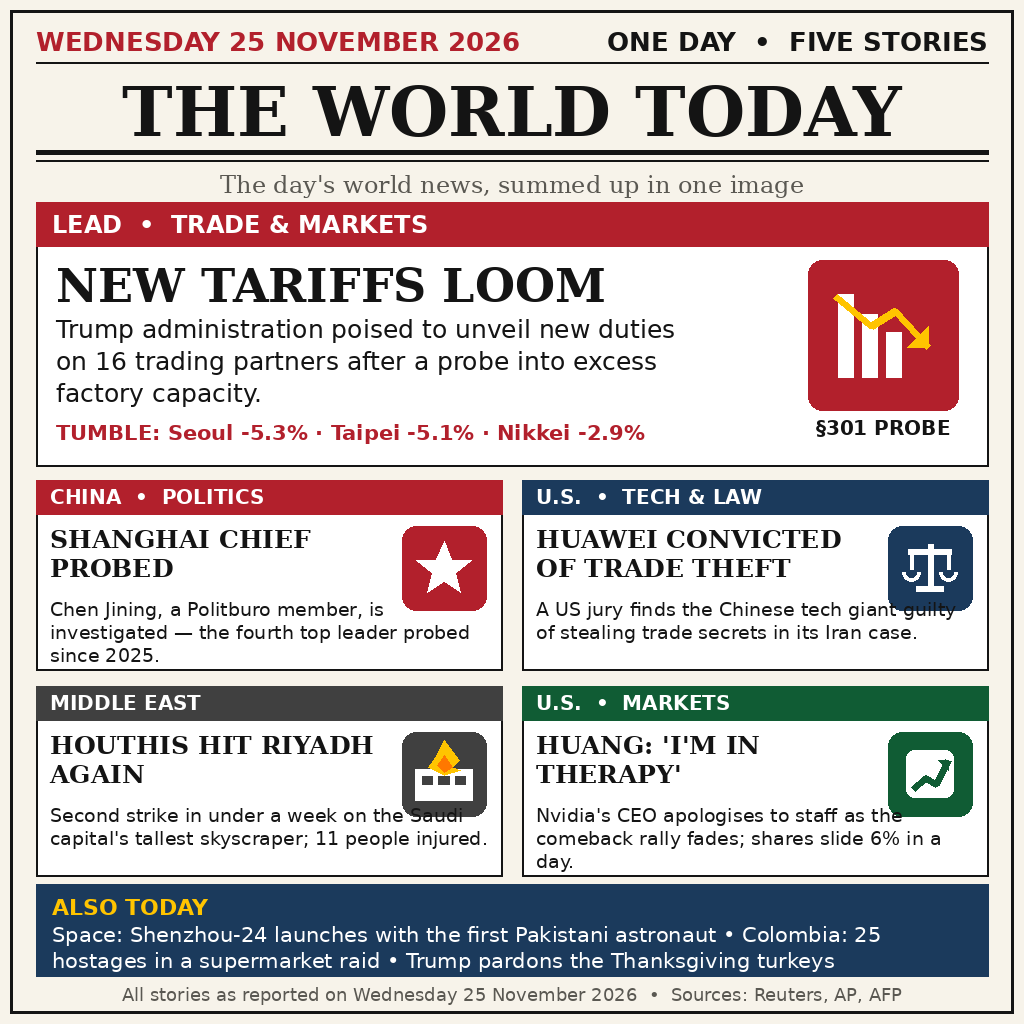
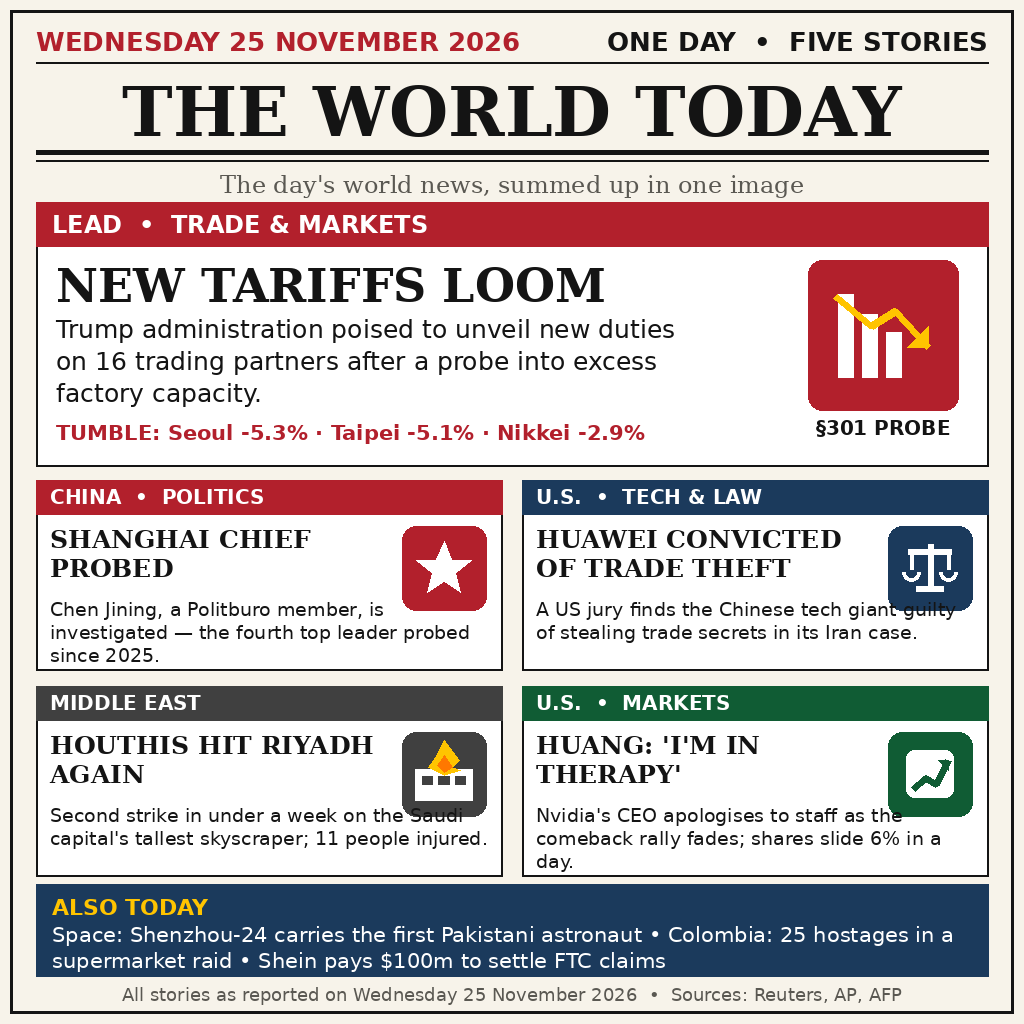
Add Shein FTC settlement to Also Today strip; tighten layout

Changed region(s): [[0.0625, 0.9062, 0.9375, 0.9688]]

diff --git a/main.py b/main.py
@@ -7,8 +7,8 @@ into excess factory capacity (Asian markets tumble), Shanghai party chief
 Chen Jining under investigation, a US jury convicting Huawei of stealing
 trade secrets, a second Houthi strike on Riyadh's tallest tower, and
 Nvidia's Jensen Huang apologising to staff as the comeback rally fades —
-plus Shenzhou-24, the Colombia supermarket hostages and the Thanksgiving
-turkey pardon.
+plus Shenzhou-24, the Colombia supermarket hostages and Shein's $100m FTC
+settlement.
 
 Standard library only. No network. Deterministic: the output bytes are an
 exact copy of the shipped image, so two runs write identical bytes.
